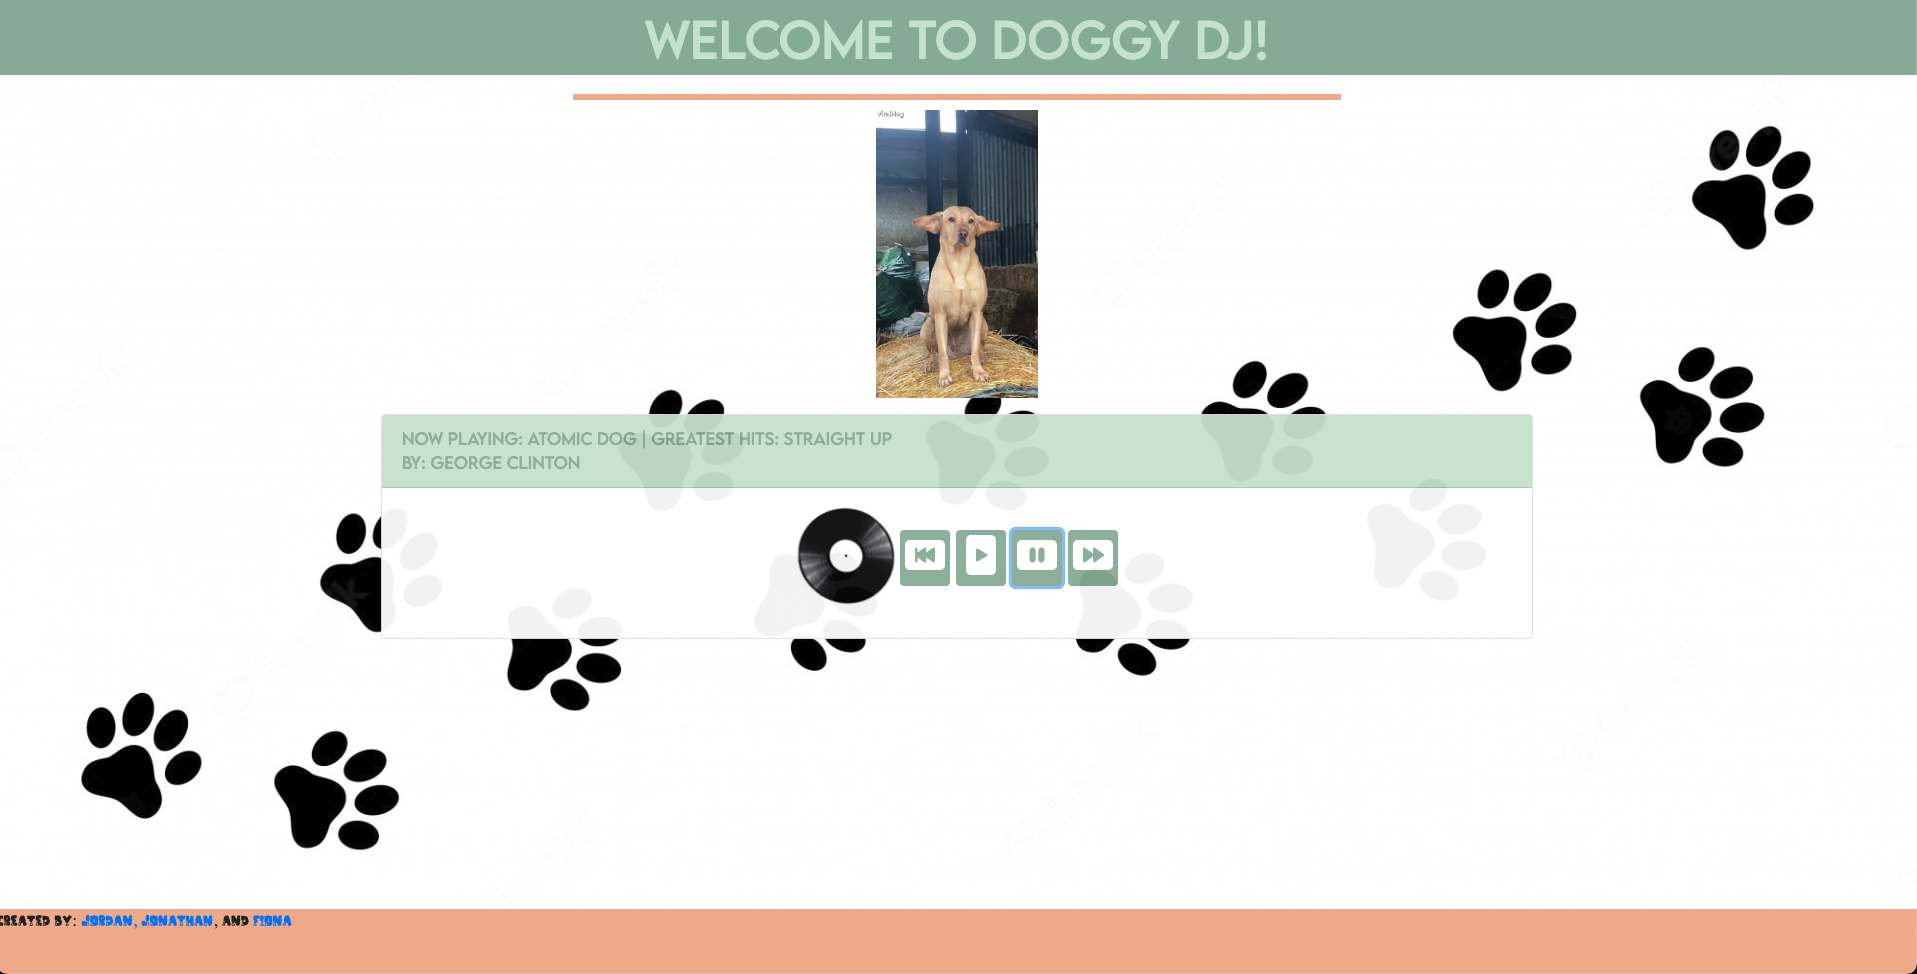
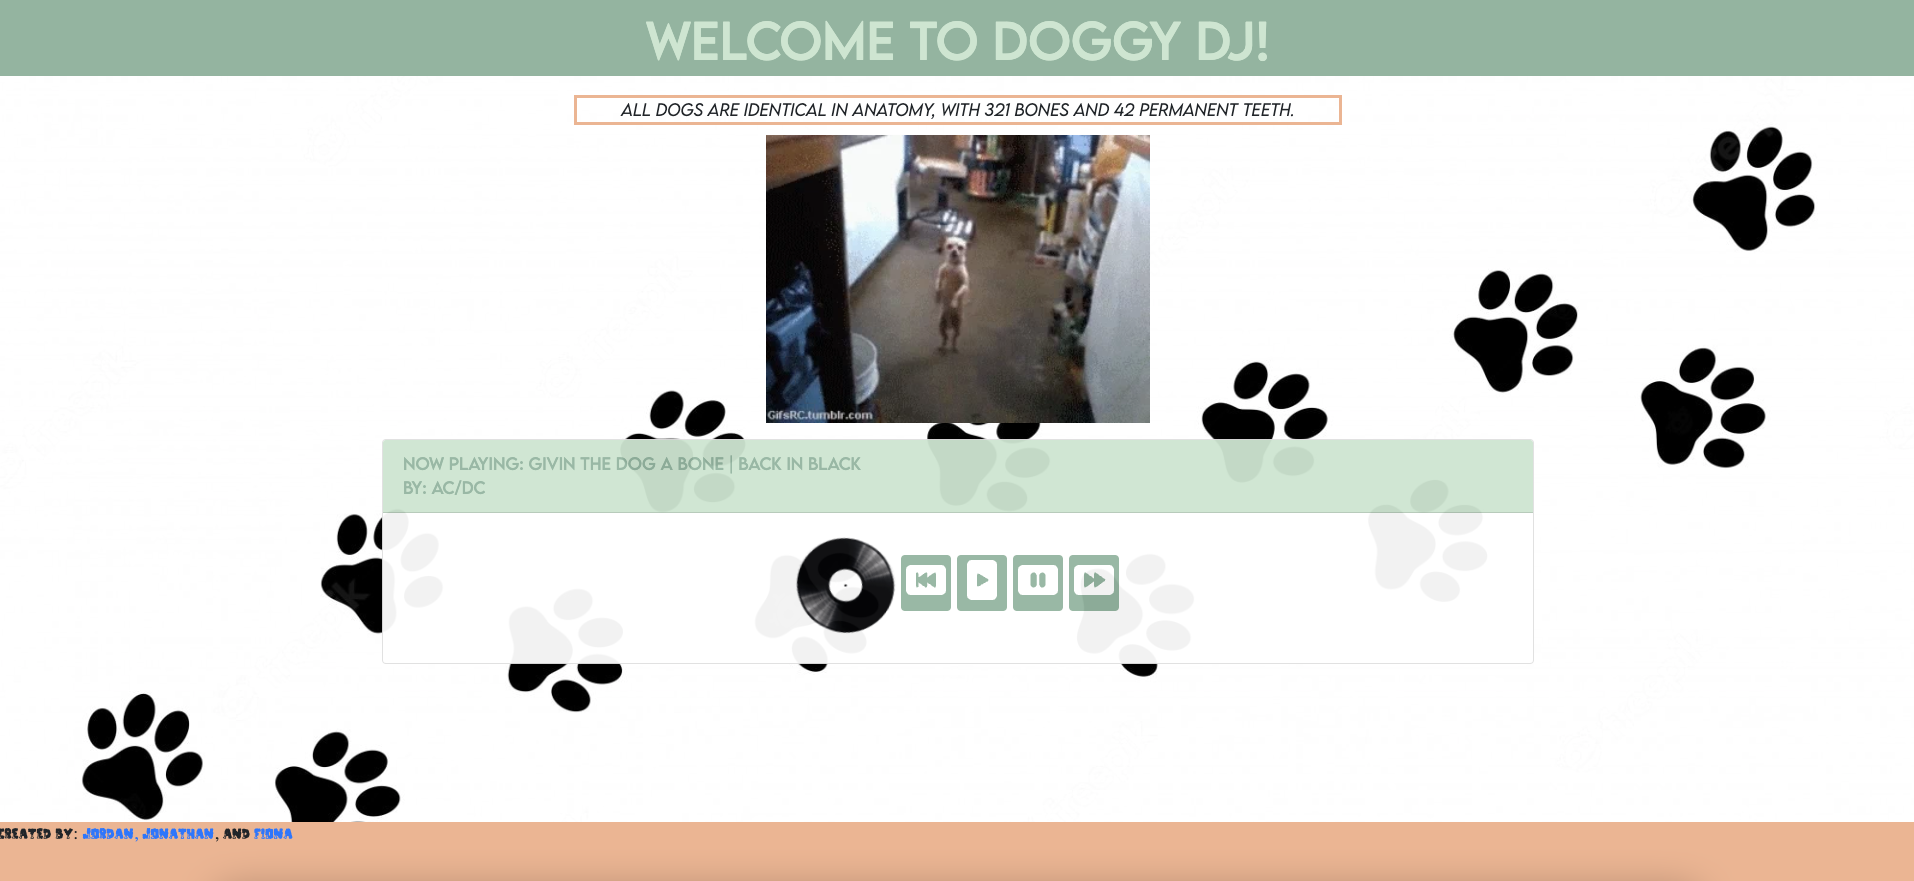
added new pics and bottom note

diff --git a/README.md b/README.md
@@ -24,12 +24,10 @@ Doggy Dj is a fun and handy dog themed music player and dog fact hotspot. Perfec
 
 Here's the team and our project! Look at that pug go.
 <img src="./team.png">
-Top of the screen
-<img src="./top_screen.png">
-Media player.
-<img src="./media_player.png">
+Here's a closeup.
+<img src="./media_player_quotes.png">
 Full screen from the user's point of view.
-<img src="full_screen.png">
+<img src="./full_screen.png">
 
 ## Developer Team
 
@@ -40,3 +38,7 @@ Full screen from the user's point of view.
 [1]: https://github.com/fionaeckert
 [2]: https://github.com/Jon-115
 [3]: https://github.com/jordanboardman
+
+## Note:
+
+**_Currently, as of September 2022, the Doggy DJ site requires the user to run the site with a CORS server. This is actively being worked on by the dev team and we will have a patch released here shortly._**
